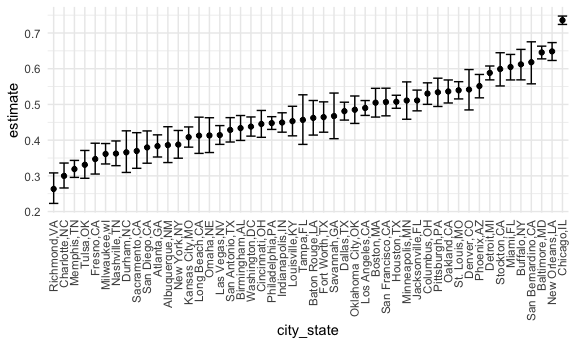
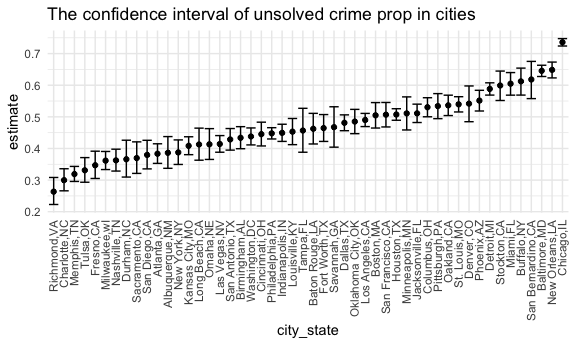
add title of graph 1

diff --git a/p8105_hw5_hc3212.md b/p8105_hw5_hc3212.md
@@ -173,7 +173,8 @@ result_df %>%
   ggplot(aes(x = city_state, y = estimate)) +
   geom_point() +
   geom_errorbar(aes(ymin = conf.low, ymax = conf.high)) +
-  theme(axis.text.x = element_text(angle = 90, vjust = 0.5, hjust=1))
+  theme(axis.text.x = element_text(angle = 90, vjust = 0.5, hjust=1)) +
+  labs(title = "The confidence interval of unsolved crime prop in cities")
 ```
 
 <img src="p8105_hw5_hc3212_files/figure-gfm/bar_plot-1.png" width="90%" />
